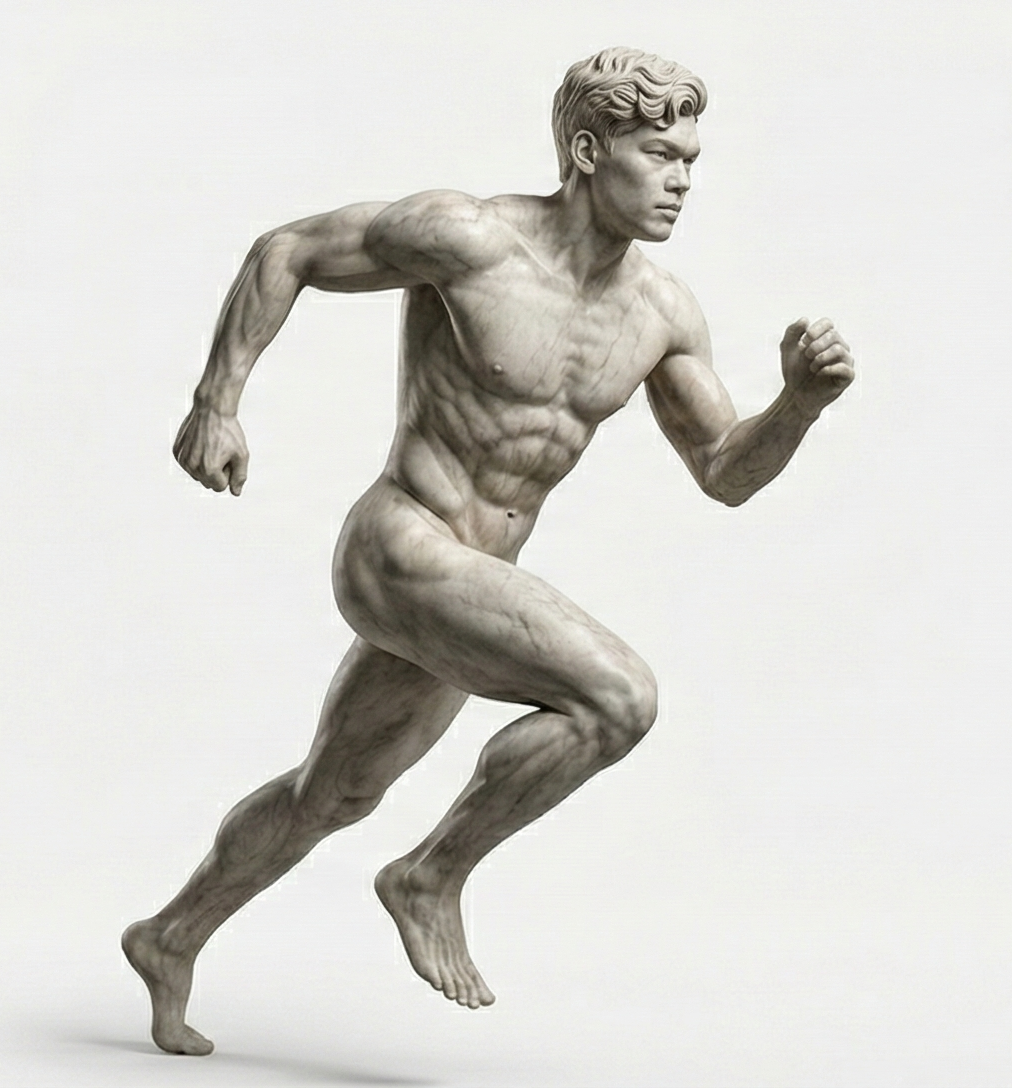
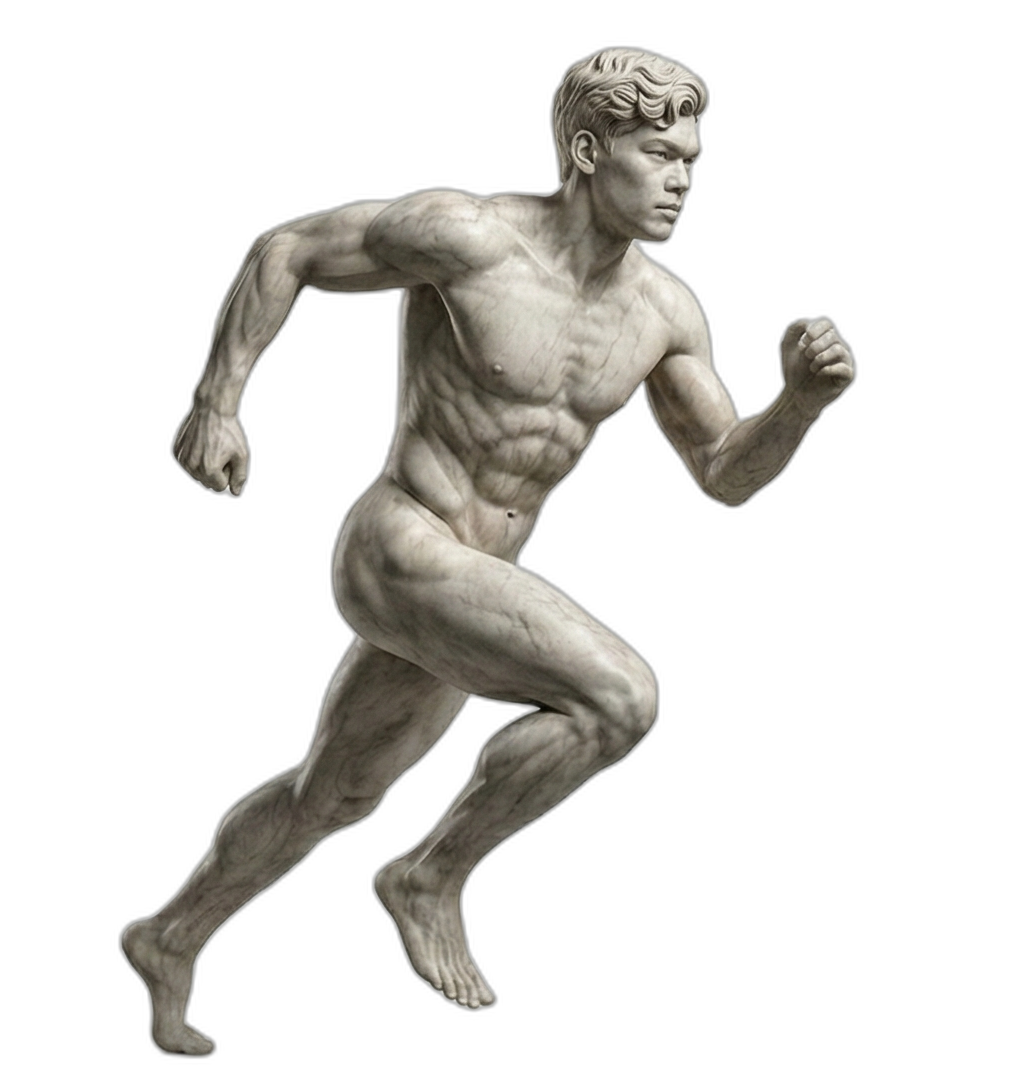
Remove statue backgrounds (transparent PNGs), boost visibility, remove blend-mode hack

diff --git a/src/styles/style.css b/src/styles/style.css
@@ -178,8 +178,8 @@ ul { list-style: none; }
   z-index: 0;
   object-fit: contain;
   transition: opacity 2s ease-in-out;
-  filter: brightness(0.8) contrast(1.1) saturate(0.7);
-  mix-blend-mode: luminosity;
+  filter: brightness(0.85) contrast(1.05) saturate(0.8);
+  opacity: 0.15;
 }
 
 /* Hero statues */
@@ -187,14 +187,14 @@ ul { list-style: none; }
   left: -5%;
   bottom: -10%;
   height: 85%;
-  opacity: 0.12;
+  opacity: 0.2;
 }
 
 .statue-right {
   right: -3%;
   bottom: -5%;
   height: 90%;
-  opacity: 0.08;
+  opacity: 0.14;
 }
 
 /* Panel background statues */
@@ -203,21 +203,21 @@ ul { list-style: none; }
   bottom: -10%;
   height: 95%;
   transform: translateX(-50%);
-  opacity: 0.06;
+  opacity: 0.1;
 }
 
 .statue-bg-right {
   right: -5%;
   bottom: -10%;
   height: 90%;
-  opacity: 0.08;
+  opacity: 0.12;
 }
 
 .statue-bg-left {
   left: -5%;
   bottom: -10%;
   height: 90%;
-  opacity: 0.08;
+  opacity: 0.12;
 }
 
 /* ===== HERO PANEL ===== */
